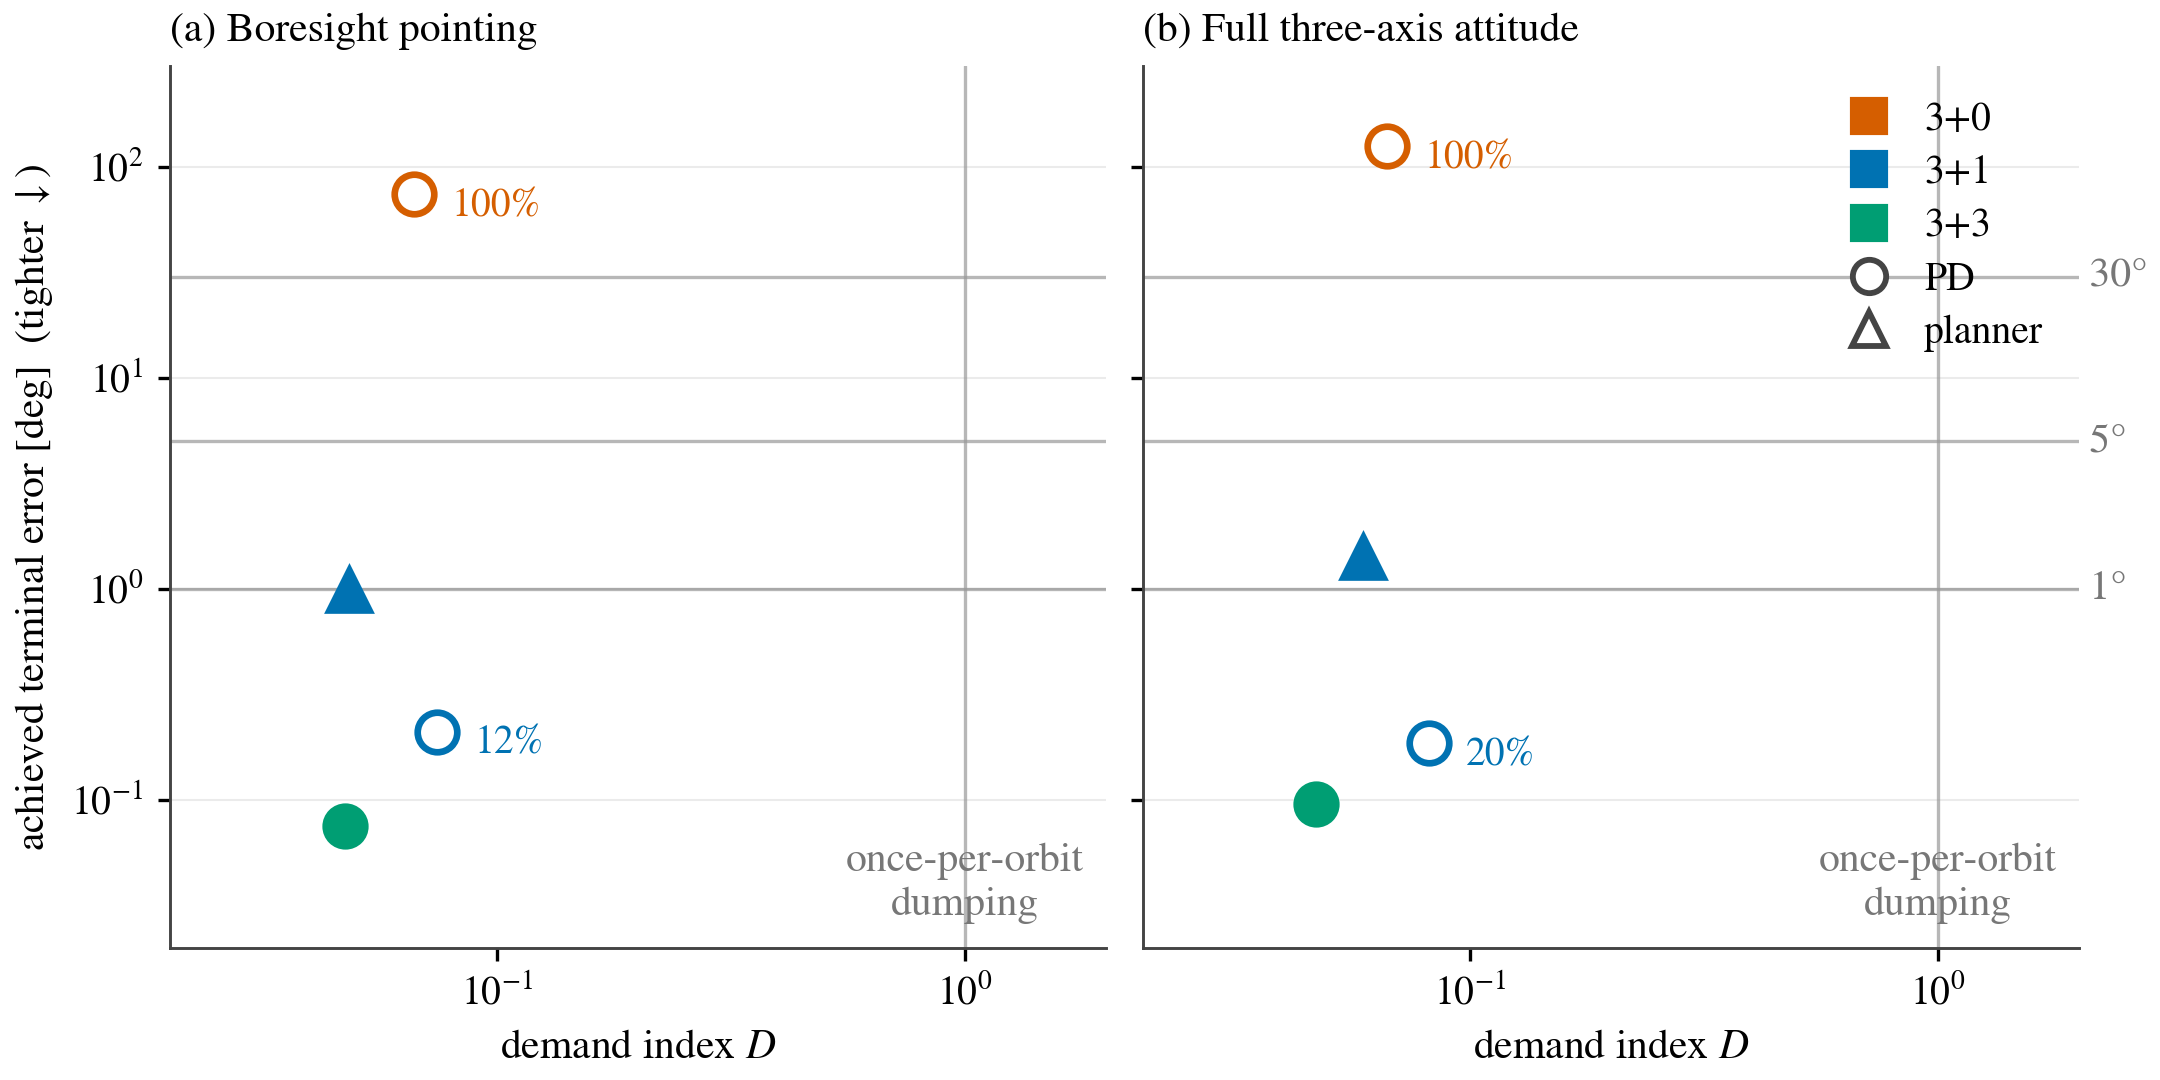
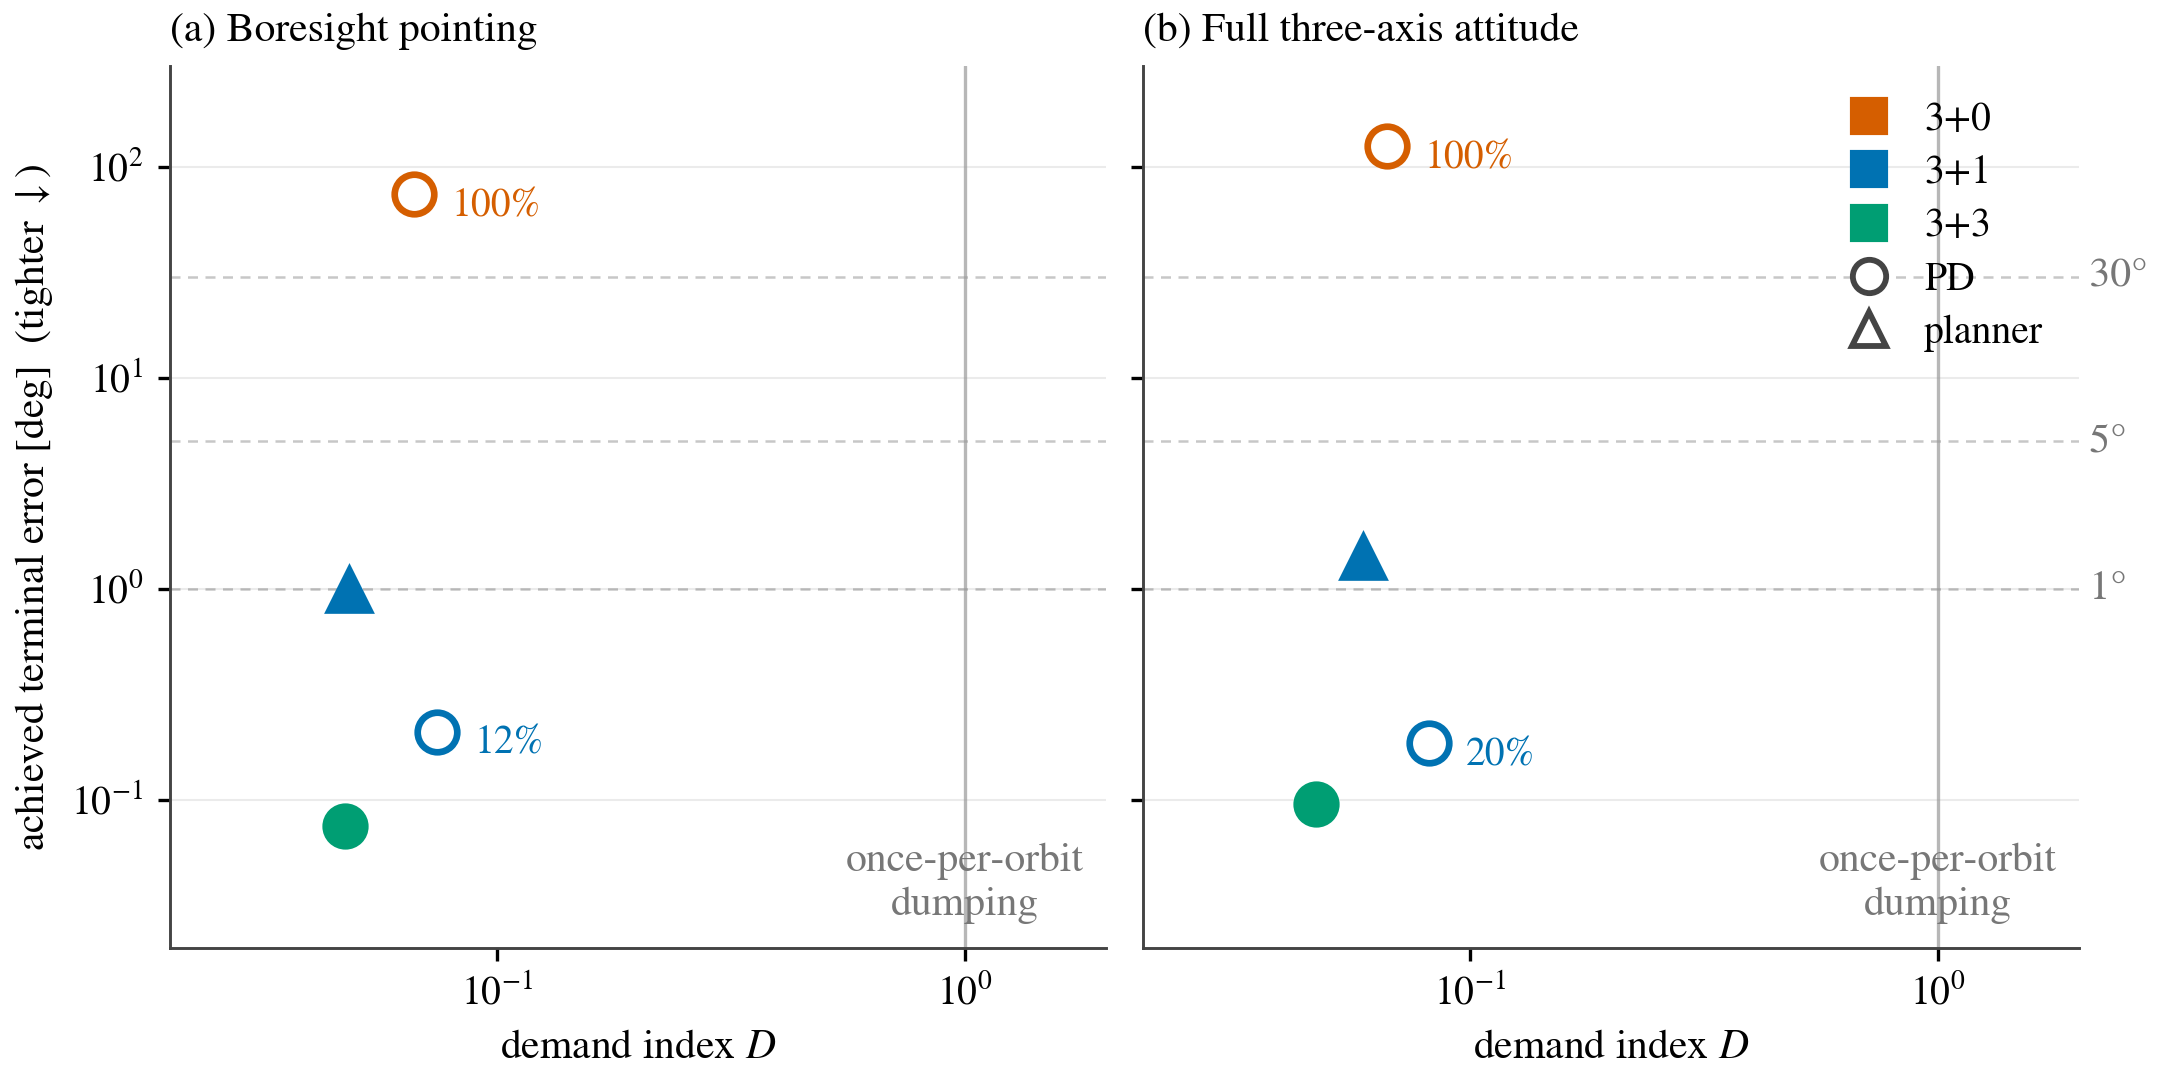
fig(IAC): screening diagram -- 1/5/30 deg reference lines dashed and lighter so the D = 1 line stands apart

diff --git a/papers/IAC_1RW/fig3_envelope.py b/papers/IAC_1RW/fig3_envelope.py
@@ -76,7 +76,7 @@ def main():
     for ax, (task, title) in zip(axes, (("reduced", "(a) Boresight pointing"),
                                         ("full", "(b) Full three-axis attitude"))):
         for thr in (1.0, 5.0, 30.0):
-            ax.axhline(thr, color="#999999", lw=0.8, ls="-", alpha=0.7, zorder=1)
+            ax.axhline(thr, color="#999999", lw=0.6, ls=(0, (4, 3)), alpha=0.55, zorder=1)
             if ax is axes[-1]:
                 ax.text(2.0, thr, f" {thr:.0f}°", fontsize=10, color="#777777",
                         ha="left", va="center", clip_on=False)
